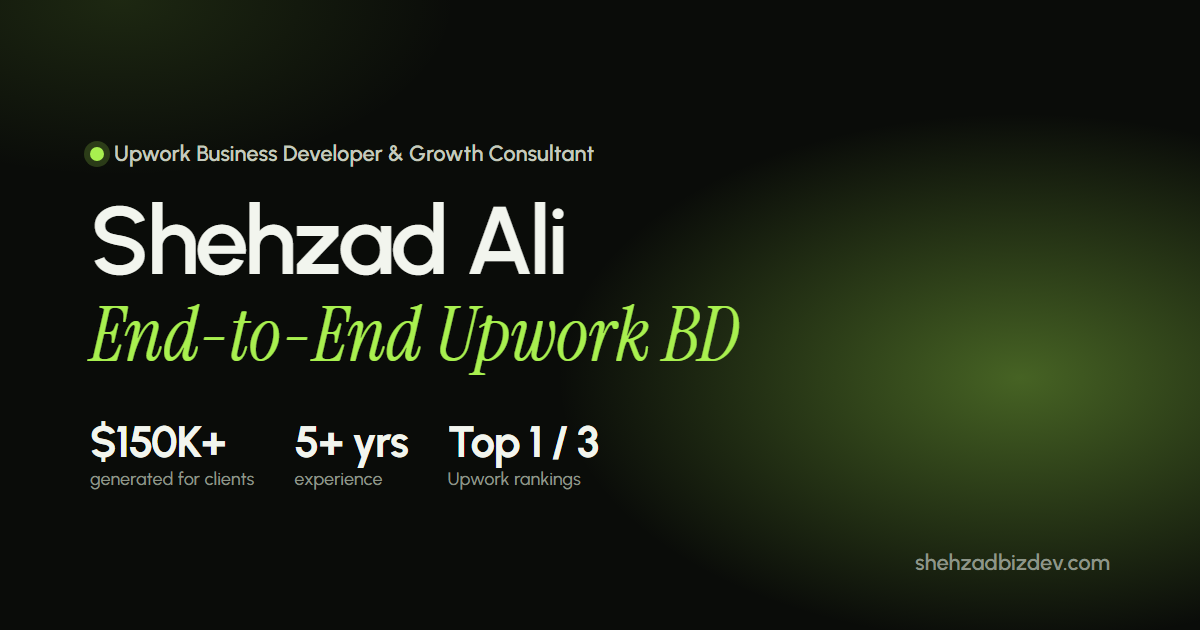
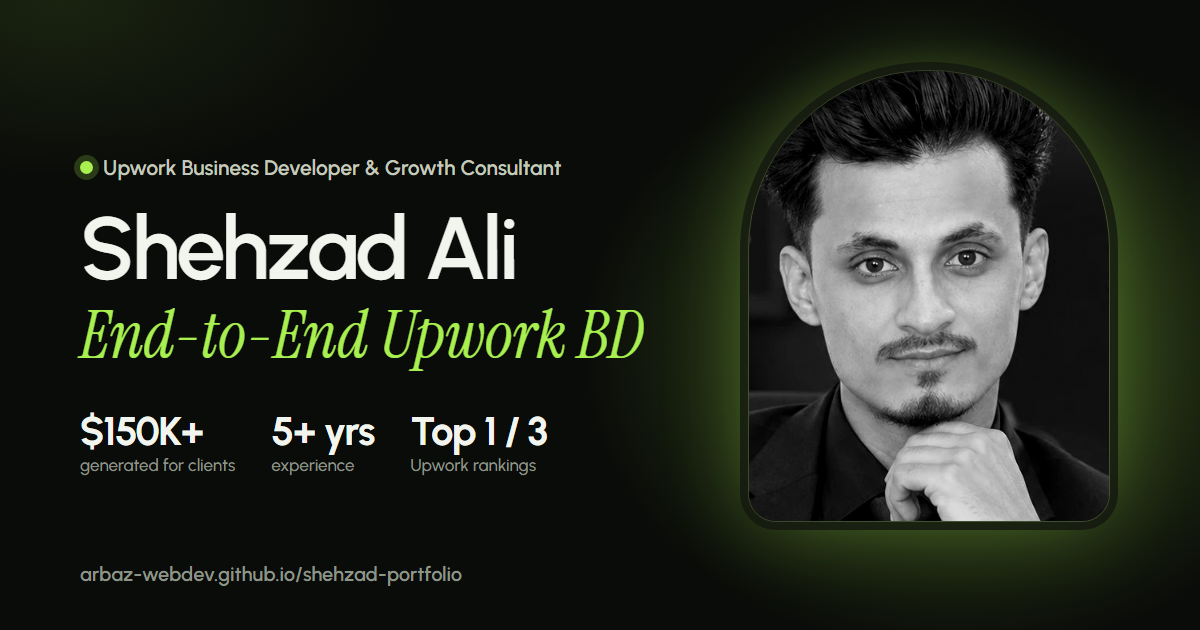
Add Shehzad's photo to hero, About and share image
Cropped the portrait from the supplied promo graphic (no logo/text):
an arch-framed hero photo and a wider About shot. Both are black and
white and warm to colour on hover. The Open Graph image now features
the portrait, and the hero photo is preloaded.

diff --git a/index.html b/index.html
@@ -26,7 +26,8 @@
   <link rel="preconnect" href="https://fonts.googleapis.com">
   <link rel="preconnect" href="https://fonts.gstatic.com" crossorigin>
   <link href="https://fonts.googleapis.com/css2?family=Instrument+Serif:ital@0;1&family=Urbanist:wght@400;500;600;700;800&display=swap" rel="stylesheet">
-  <link rel="stylesheet" href="assets/styles.css?v=5">
+  <link rel="stylesheet" href="assets/styles.css?v=6">
+  <link rel="preload" as="image" href="assets/img/shehzad-hero.jpg" fetchpriority="high">
 
   <!-- Theme before paint (avoids a flash) -->
   <script>document.documentElement.classList.add('js');var q=location.search.match(/theme=(light|dark)/);try{var t=q?q[1]:localStorage.getItem('theme');if(t)document.documentElement.dataset.theme=t;}catch(e){if(q)document.documentElement.dataset.theme=q[1];}</script>
@@ -37,7 +38,7 @@
   -->
 
   <script type="application/ld+json">
-  {"@context":"https://schema.org","@type":"Person","name":"Shehzad Ali","jobTitle":"Upwork Business Developer & Growth Consultant","url":"https://arbaz-webdev.github.io/shehzad-portfolio/","email":"mailto:shehzadali1220@gmail.com","address":{"@type":"PostalAddress","addressLocality":"Karachi","addressCountry":"PK"},"sameAs":["https://www.linkedin.com/in/shehzadali719","https://github.com/Shehzad719"]}
+  {"@context":"https://schema.org","@type":"Person","name":"Shehzad Ali","jobTitle":"Upwork Business Developer & Growth Consultant","url":"https://arbaz-webdev.github.io/shehzad-portfolio/","image":"https://arbaz-webdev.github.io/shehzad-portfolio/assets/img/shehzad-hero.jpg","email":"mailto:shehzadali1220@gmail.com","address":{"@type":"PostalAddress","addressLocality":"Karachi","addressCountry":"PK"},"sameAs":["https://www.linkedin.com/in/shehzadali719","https://github.com/Shehzad719"]}
   </script>
 </head>
 <body>
@@ -386,7 +387,7 @@
   <svg viewBox="0 0 32 32" aria-hidden="true"><path fill="currentColor" d="M16 3a13 13 0 0 0-11.2 19.6L3 29l6.6-1.7A13 13 0 1 0 16 3zm0 23.6c-2 0-4-.6-5.7-1.6l-.4-.2-3.9 1 1-3.8-.3-.4A10.6 10.6 0 1 1 16 26.6zm5.8-7.9c-.3-.2-1.9-.9-2.2-1-.3-.1-.5-.2-.7.2l-1 1.2c-.2.2-.4.2-.7.1a8.7 8.7 0 0 1-4.3-3.8c-.3-.6.3-.5.9-1.7.1-.2 0-.4 0-.5l-1-2.4c-.3-.6-.5-.5-.7-.5h-.6c-.2 0-.6.1-.9.4-.3.3-1.2 1.1-1.2 2.8s1.2 3.3 1.4 3.5c.2.2 2.4 3.7 5.8 5.1 2.2.9 3 1 4.1.8.7-.1 1.9-.8 2.2-1.5.3-.8.3-1.4.2-1.5-.1-.1-.3-.2-.6-.3z"/></svg>
 </a>
 
-<script src="assets/content.js?v=5" defer></script>
-<script src="assets/main.js?v=5" defer></script>
+<script src="assets/content.js?v=6" defer></script>
+<script src="assets/main.js?v=6" defer></script>
 </body>
 </html>

diff --git a/assets/styles.css b/assets/styles.css
@@ -187,6 +187,15 @@ svg { width: 1em; height: 1em; fill: none; stroke: currentColor; stroke-width: 1
 .portrait-ph svg { width: 86%; height: auto; fill: var(--ph-fg); stroke: none; }
 .portrait-ph span { position: absolute; top: 46%; font-size: 12px; font-weight: 600; letter-spacing: .08em; text-transform: uppercase; color: var(--muted); background: var(--bg); padding: 5px 12px; border-radius: 999px; border: 1px dashed var(--line-2); }
 .hero__photo .portrait-ph { background: radial-gradient(70% 60% at 50% 40%, var(--ph), transparent 72%); }
+/* Real photo: arch-topped card, black & white that warms to colour on hover. */
+.hero__photo.has-photo {
+  -webkit-mask-image: none; mask-image: none;
+  margin: 44px 0; overflow: hidden; border-radius: 170px 170px 30px 30px;
+  background: var(--ph); border: 1px solid var(--line-2);
+  box-shadow: 0 0 0 8px color-mix(in srgb, var(--card) 72%, transparent), 0 40px 80px -34px rgba(0,0,0,.75), 0 0 90px -10px var(--glow-strong);
+}
+.hero__photo.has-photo img, .about__photo img { transition: filter .7s, transform .9s var(--ease); }
+.hero__photo.has-photo:hover img, .about__photo:hover img { filter: none; transform: scale(1.03); }
 
 /* marquee */
 .marquee { position: relative; border-top: 1px solid var(--line); border-bottom: 1px solid var(--line); padding: 22px 0; overflow: hidden;
@@ -549,6 +558,7 @@ svg { width: 1em; height: 1em; fill: none; stroke: currentColor; stroke-width: 1
 @media (max-width: 900px) {
   .hero__stage { grid-template-columns: 1fr; justify-items: center; margin-top: 8px; }
   .hero__photo { order: 1; width: min(320px, 80%); }
+  .hero__photo.has-photo { margin: 20px 0 36px; }
   .hero__right { order: 2; align-items: center; text-align: center; padding: 0; }
   .hero__left { order: 3; align-items: center; padding: 0 0 40px; flex-direction: column-reverse; gap: 24px; }
   .hero__signature { max-width: 26ch; }

diff --git a/assets/content.js b/assets/content.js
@@ -18,8 +18,8 @@ window.SITE = {
     smallLine: "Multi-niche expertise, strongest in WordPress, Shopify & Design",
     tagline: "Turning pitches into projects and opportunities into revenue.",
     availability: "Available for new opportunities",
-    photo: "",            // e.g. "assets/img/shehzad.jpg" — leave "" to show the placeholder
-    aboutPhoto: "",       // e.g. "assets/img/shehzad-casual.jpg"
+    photo: "assets/img/shehzad-hero.jpg",        // leave "" to show the placeholder
+    aboutPhoto: "assets/img/shehzad-about.jpg",
     cv: "",               // e.g. "assets/Shehzad-Ali-CV.pdf" — the Download CV button stays hidden until this is set
     email: "shehzadali1220@gmail.com",
     phone: "+92 313 1063610",

diff --git a/assets/main.js b/assets/main.js
@@ -55,7 +55,9 @@
 
   var setPhoto = function (fig, src, alt) {
     if (!src || !fig) return;
-    fig.innerHTML = '<img src="' + esc(src) + '" alt="' + esc(alt) + '" loading="' + (fig.id === "heroPhoto" ? "eager" : "lazy") + '">';
+    var hero = fig.id === "heroPhoto";
+    fig.innerHTML = '<img src="' + esc(src) + '" alt="' + esc(alt) + '" ' + (hero ? 'fetchpriority="high"' : 'loading="lazy"') + ">";
+    fig.classList.add("has-photo");
   };
   setPhoto($("#heroPhoto"), P.photo, P.name);
   setPhoto($("#aboutPhoto"), P.aboutPhoto || P.photo, P.name);
